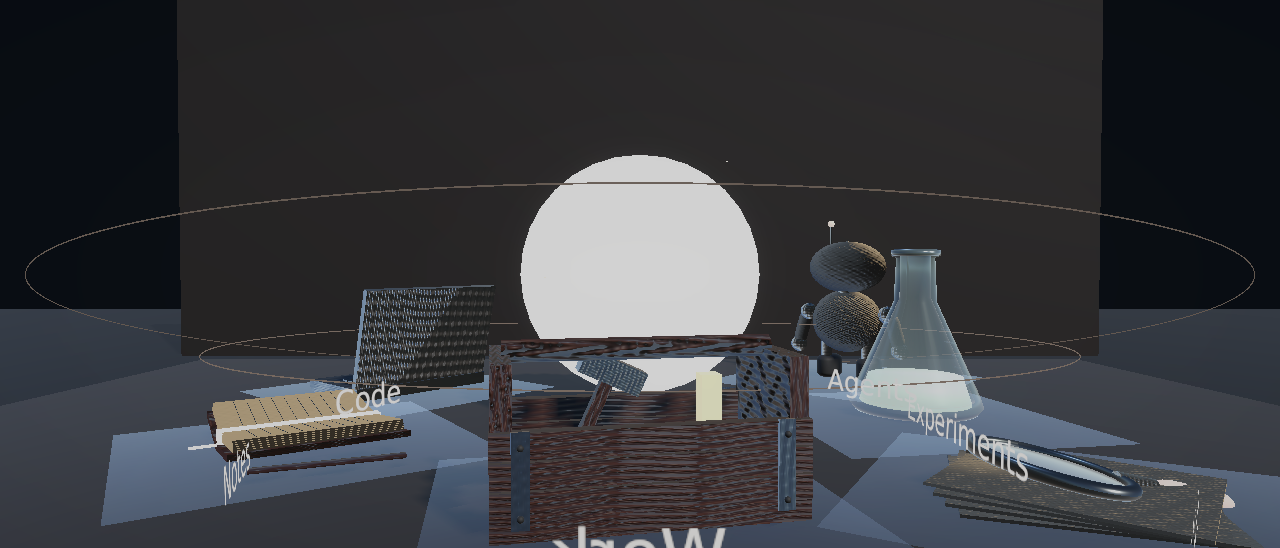
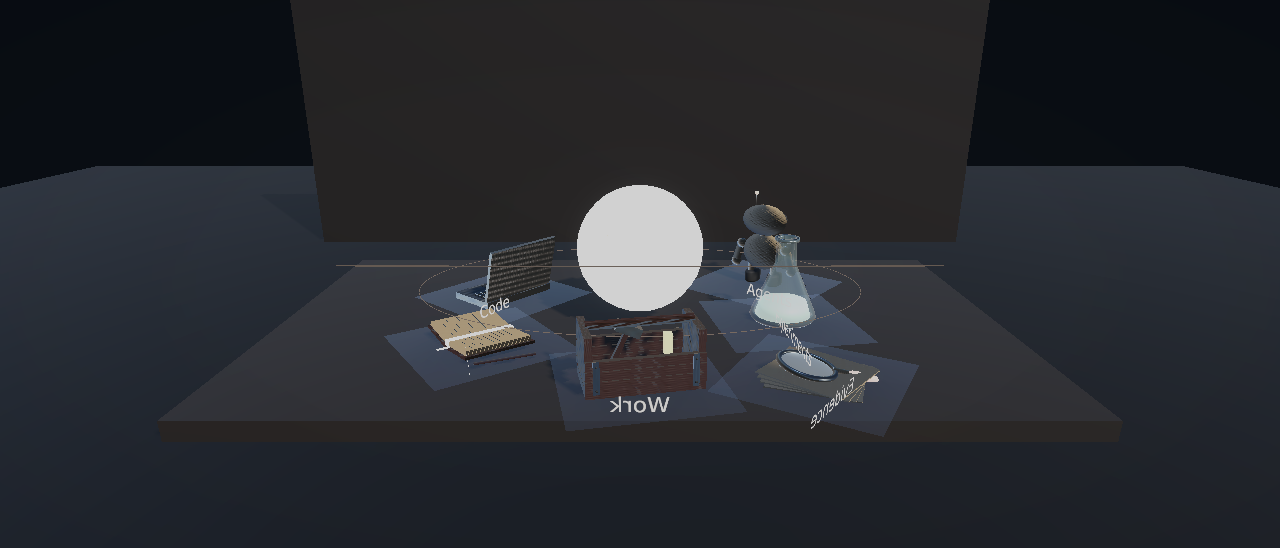
Grade and framing tuned against pixel captures; column bookmark added
The first pixel captures exposed two real bugs: the runtime camera never
received UniversalAdditionalCameraData (post and MSAA silently no-op'd,
rendering the sphere as a flat white disc) and the 42-degree FOV broke the
48-degree framing constants. The grade now lifts instead of crushing
(exposure +0.45, contrast 8, vignette 0.18, brighter trilight ambient)
and MoveCamera keeps its 17.9-degree pitch at distance 12.76, verified by
the portal-framing self-check. Captures show the warm pearl sphere with
zero clipped pixels and the #0A0E14 backdrop.

diff --git a/unity-memory-palace/Assets/Loom/MemoryPalaceController.cs b/unity-memory-palace/Assets/Loom/MemoryPalaceController.cs
@@ -36,9 +36,9 @@ namespace Loom.MemoryPalace
         static readonly Color DarkGreen = Rgb(147, 177, 159);
         static readonly Color DarkRed = Rgb(211, 146, 138);
         static readonly Color DarkPurple = Rgb(185, 164, 144);
-        static readonly Color DarkSky = Rgb(26, 32, 42);
-        static readonly Color DarkEquator = Rgb(20, 24, 32);
-        static readonly Color DarkGround = Rgb(12, 15, 22);
+        static readonly Color DarkSky = Rgb(44, 52, 66);
+        static readonly Color DarkEquator = Rgb(34, 40, 52);
+        static readonly Color DarkGround = Rgb(22, 26, 34);
         static readonly Color DarkOrbitInner = Rgb(120, 105, 95);
         static readonly Color DarkOrbitOuter = Rgb(100, 88, 80);
         static readonly Color DarkKeyLight = Rgb(255, 240, 225);
@@ -88,7 +88,7 @@ namespace Loom.MemoryPalace
         MemoryAnchor selected;
         MemoryAnchor hovered;
         Vector2 look;
-        float distance = 11f;
+        float distance = 12.76f;
         float orbitAngle;
         bool reduceMotion;
 #if UNITY_WEBGL && !UNITY_EDITOR
@@ -399,14 +399,14 @@ namespace Loom.MemoryPalace
             // §5.6: the scene has no baked indirect light, so the grade must
             // lift, not darken — post-exposure well above neutral and a
             // shadows lift keep the near-blacks separable instead of crushed.
-            adjustments.postExposure.Override(0.35f);
-            adjustments.contrast.Override(10f);
+            adjustments.postExposure.Override(0.45f);
+            adjustments.contrast.Override(8f);
             adjustments.saturation.Override(-5f);
             adjustments.colorFilter.Override(new Color(1f, 0.95f, 0.9f));
             var shadows = profile.Add<ShadowsMidtonesHighlights>(true);
-            shadows.shadows.Override(new Vector4(1f, 1f, 1f, 0.06f));
+            shadows.shadows.Override(new Vector4(1f, 1f, 1f, 0.07f));
             var vignette = profile.Add<Vignette>(true);
-            vignette.intensity.Override(0.25f);
+            vignette.intensity.Override(0.18f);
             vignette.smoothness.Override(0.4f);
             grade.sharedProfile = profile;
 
@@ -783,9 +783,12 @@ namespace Loom.MemoryPalace
         {
             var target = new Vector3(0f, 1.25f, 0f);
             var parallax = reduceMotion ? Vector2.zero : look;
-            // Keep all six tools within the narrower center column without changing user zoom.
+            // Keep all six tools within the narrower center column without
+            // changing user zoom. The 4.12/12.76 constants keep the same
+            // 17.9° pitch and bench coverage at the product-shot FOV of 42°
+            // (the previous 3.55/11 were tuned for 48°).
             var framing = Mathf.Max(1f, 1.1f / sceneCamera.aspect);
-            var desired = new Vector3(parallax.x * 0.25f, 1.25f + 3.55f * framing + parallax.y * 0.12f, -distance * framing);
+            var desired = new Vector3(parallax.x * 0.25f, 1.25f + 4.12f * framing + parallax.y * 0.12f, -distance * framing);
             sceneCamera.transform.position = Vector3.Lerp(sceneCamera.transform.position, desired, reduceMotion ? 1f : Time.deltaTime * 1.8f);
             sceneCamera.transform.rotation = Quaternion.Slerp(sceneCamera.transform.rotation,
                 Quaternion.LookRotation(target - sceneCamera.transform.position), reduceMotion ? 1f : Time.deltaTime * 3.5f);

diff --git a/unity-memory-palace/Tools/CaptureBookmarks.cs b/unity-memory-palace/Tools/CaptureBookmarks.cs
@@ -67,24 +67,35 @@ async Task Bookmark(string name, Vector3 position, Vector3 target)
 }
 
 var sphere = new Vector3(0f, 1.75f, 0f);
+// The front bookmark matches the runtime camera (MoveCamera's 17.9° pitch
+// at aspect ≥ 1.1); the other two are look-dev views.
+var bench = new Vector3(0f, 1.25f, 0f);
 
 // Dark theme — the shipping default from the Tauri shell.
 controller.ApplyTheme("dark");
 controller.ApplyLoomState("idle");
-await Bookmark("bench-dark-front.png", new Vector3(0f, 1.9f, -7.1f), sphere);
-await Bookmark("bench-dark-three-quarter.png", new Vector3(-4.9f, 2.5f, -5.2f), sphere);
-await Bookmark("bench-dark-top-down.png", new Vector3(0f, 8.4f, 0.25f), sphere);
+await Bookmark("bench-dark-front.png", new Vector3(0f, 5.37f, -12.76f), bench);
+await Bookmark("bench-dark-three-quarter.png", new Vector3(-9.8f, 5.37f, -8.2f), bench);
+await Bookmark("bench-dark-top-down.png", new Vector3(0f, 13f, 0.4f), bench);
 if (volume)
 {
     volume.enabled = false;
-    await Bookmark("bench-dark-front-no-post.png", new Vector3(0f, 1.9f, -7.1f), sphere);
+    await Bookmark("bench-dark-front-no-post.png", new Vector3(0f, 5.37f, -12.76f), bench);
     volume.enabled = true;
 }
 
 // Light theme — §12 of the philosophy requires both modes to read.
 controller.ApplyTheme("white");
 controller.ApplyLoomState("idle");
-await Bookmark("bench-light-front.png", new Vector3(0f, 1.9f, -7.1f), sphere);
+await Bookmark("bench-light-front.png", new Vector3(0f, 5.37f, -12.76f), bench);
+
+// The narrow centre-column framing the app actually uses (aspect ≈ 0.6):
+// the camera pulls back further, so judge at that size too.
+controller.ApplyTheme("dark");
+camera.aspect = 0.6f;
+controller.SendMessage("MoveCamera");
+await Bookmark("bench-column.png", new Vector3(0f, 8.8f, -23.3f), bench);
+camera.aspect = 1280f / 548f;
 
 controller.enabled = true;
 EditorApplication.ExitPlaymode();

diff --git a/docs/BENCH_MATERIALS.md b/docs/BENCH_MATERIALS.md
@@ -18,19 +18,30 @@ assets; the project constraint). Assigned in
 
 ## Lighting and grading
 
-- Rig (§5.5): warm directional key (255,240,222) front-left · cool fill
-  (133,158,202) front-right at ~0.32 · white rim spot behind the sphere.
-  Evidence adds a dedicated reading spot over the documents (legibility
-  surface).
+- Rig (§5.5): warm directional key (255,240,222) front-left at 1.15 · cool
+  fill (133,158,202) front-right at 0.42 · white rim spot behind the
+  sphere. Evidence adds a dedicated reading spot over the documents
+  (legibility surface).
+- Ambient (dark): sky (44,52,66) / equator (34,40,52) / ground (22,26,34) —
+  brighter than the first pass because there is no baked indirect light to
+  do the fill; the trilight ambient carries it.
 - One global Volume (§5.6): ACES · Bloom (threshold 1.05, intensity 0.45,
-  scatter 0.7) · Color Adjustments (post-exposure +0.1, contrast +15,
-  saturation −5, warm filter) · Vignette (0.25, smoothness 0.4).
+  scatter 0.7) · Color Adjustments (post-exposure +0.45, contrast +8,
+  saturation −5, warm filter) · Shadows lift +0.07 · Vignette (0.18,
+  smoothness 0.4). Tuned against pixel captures (docs/bench-shots/): the
+  sphere reads as a warm pearl (≈230,218,207) with zero clipped pixels,
+  the backdrop sits at #0A0E14, and props separate from the desk.
 - Camera (§5.8): vertical FOV 42°, solid backdrop #0A0E14 (dark theme),
-  exponential-squared fog at 0.005.
+  exponential-squared fog at 0.005; MoveCamera keeps a 17.9° pitch at
+  distance 12.76 so all six portals stay framed at column aspects
+  (self-checked at 0.65/1.0/1.6).
 - Quality tiers: High (renderScale 1, MSAA 4×) / Balanced (0.85, 2×) /
   Low (0.75, 1×, no SSAO). SSAO: intensity 0.5, downsample on, 4 samples.
 - Dust motes: <100 additive particles near the sphere, paused under
   reduced motion.
+- Fixed camera bookmarks (§8.2): front (0, 5.37, −12.76), three-quarter,
+  top-down, plus a column-aspect shot — captured by
+  `unity-memory-palace/Tools/CaptureBookmarks.cs` into `docs/bench-shots/`.
 
 ## Deferred, honestly
 
